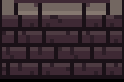
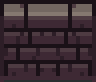
feat: implement random level door placement with protected access and updated visual rendering

diff --git a/src/ui/DesignModeView.java b/src/ui/DesignModeView.java
@@ -551,7 +551,19 @@ public class DesignModeView extends JPanel {
             return;
 
         GameObject existing = map.getObjectAt(hoverTileX, hoverTileY);
+        if (existing instanceof domain.models.staticObjects.LevelDoor) {
+            return; // Cannot overwrite the level door!
+        }
+
         GameObject obj = item.factory.apply(hoverTileX, hoverTileY);
+
+        // Cannot place obstacles in front of the door (which is at y==0)
+        if (hoverTileY == 1 && isObstacle(obj)) {
+            GameObject above = map.getObjectAt(hoverTileX, 0);
+            if (above instanceof domain.models.staticObjects.LevelDoor) {
+                return; // Cannot block the front of the door!
+            }
+        }
 
         boolean isWallMounted = (obj instanceof domain.models.staticObjects.WallObject);
 
@@ -635,6 +647,9 @@ public class DesignModeView extends JPanel {
         GameObject existing = map.getObjectAt(tx, ty);
         if (existing == null)
             return;
+        if (existing instanceof domain.models.staticObjects.LevelDoor) {
+            return; // Cannot erase the level door!
+        }
         if (existing instanceof WallTile) {
             map.placeObject(null, tx, ty);
         } else {
@@ -1038,7 +1053,11 @@ public class DesignModeView extends JPanel {
             }
         }
 
-        // 3. Çıkış Kapısı yerleştirme KALDIRILDI (Kapi assla konulmamali)
+        // 3. Çıkış Kapısı yerleştirme (Her zaman 1 kapı yerleştirsin, kapı önü boş olacak, en sağ/sol tile'lar hariç)
+        int doorX = rand.nextInt(w - 4) + 2; 
+        map.placeObject(new domain.models.staticObjects.LevelDoor("Level Gate", doorX, 0), doorX, 0);
+        map.placeObject(new domain.models.tile.FloorTile(), doorX, 1);
+        reserved[doorX][1] = true; // Diğer objelerin kapı önünde spawn olması engellenir
 
         // 4. Sütunlar (Obstacles) yerleştir
         int numColumns = rand.nextInt(3) + 2; // 2 - 4
@@ -1336,6 +1355,8 @@ public class DesignModeView extends JPanel {
     }
 
     private String objectType(GameObject obj) {
+        if (obj instanceof domain.models.staticObjects.LevelDoor)
+            return "LevelDoor";
         if (obj instanceof domain.models.staticObjects.WallObject)
             return "WallObject";
         if (obj instanceof PotionItem)
@@ -1432,6 +1453,7 @@ public class DesignModeView extends JPanel {
                 case "Sign" -> imgName != null && !imgName.isEmpty()
                         ? new Sign(name, x, y, imgName)
                         : new Sign(name, x, y);
+                case "LevelDoor" -> new domain.models.staticObjects.LevelDoor(name, x, y);
                 case "Door" -> new Door(name, x, y, locked);
                 case "Decoration" -> imgName != null && !imgName.isEmpty()
                         ? new Decoration(name, x, y, imgName)
@@ -1819,6 +1841,13 @@ public class DesignModeView extends JPanel {
                             g.drawImage(tImg, px, py - 6, tileSize, tileSize + 6, null);
                         }
                     }
+                } else if (y == 0 && obj instanceof domain.models.staticObjects.LevelDoor) {
+                    BufferedImage tImg = tileManager.getTile("wall/wall_1");
+                    if (tImg != null) {
+                        int dh = (int) (tileSize * 1.5);
+                        int drawY = py + tileSize - dh;
+                        g.drawImage(tImg, px, drawY, tileSize, dh, null);
+                    }
                 }
             }
         }
@@ -1909,7 +1938,7 @@ public class DesignModeView extends JPanel {
                             if (obj instanceof Decoration) {
                                 dw = (int) (tileSize * 0.4); // torch should be much smaller!
                             } else if (obj instanceof Door) {
-                                dw = tileSize * 3;
+                                dw = tileSize * 2;
                             }
                             int dh = (int) (ih * ((double) dw / iw));
                             int drawX = px + (tileSize - dw) / 2;

diff --git a/src/domain/logic/LevelManager.java b/src/domain/logic/LevelManager.java
@@ -198,10 +198,43 @@ public class LevelManager {
     }
 
     public static void placeRandomLevelDoor(GameMap map, String name) {
+        if (map == null) return;
+        
         int w = map.getWidth();
-        int middleX = w / 2;
-        int doorY = 0; // Top wall
-        map.placeObject(new LevelDoor(name, middleX, doorY), middleX, doorY);
-        System.out.println("Placed static LevelDoor '" + name + "' at (" + middleX + ", " + doorY + ")");
+        int h = map.getHeight();
+        
+        // Check if map already has a LevelDoor
+        for (int x = 0; x < w; x++) {
+            for (int y = 0; y < h; y++) {
+                GameObject obj = map.getObjectAt(x, y);
+                if (obj instanceof LevelDoor) {
+                    // Already has exactly 1 door, keep it and ensure its front tile is clear!
+                    int doorX = x;
+                    int doorY = y;
+                    // Ensure the tile in front of it (insides) is a FloorTile
+                    int frontY = (doorY == 0) ? 1 : (doorY == h - 1 ? h - 2 : doorY);
+                    if (frontY != doorY) {
+                        GameObject frontObj = map.getObjectAt(doorX, frontY);
+                        if (frontObj == null || !(frontObj instanceof domain.models.tile.FloorTile)) {
+                            map.placeObject(new domain.models.tile.FloorTile(), doorX, frontY);
+                        }
+                    }
+                    System.out.println("Map already has a LevelDoor at (" + doorX + ", " + doorY + "). Keeping it and clearing front.");
+                    return;
+                }
+            }
+        }
+        
+        // No LevelDoor found. Place a new random LevelDoor on the top wall (y == 0, en sağ/sol tile'lar hariç)
+        Random rand = new Random();
+        int doorX = rand.nextInt(w - 4) + 2;
+        int doorY = 0; // Top wall only
+        
+        map.placeObject(new LevelDoor(name, doorX, doorY), doorX, doorY);
+        
+        // Ensure the tile in front of the door (doorX, 1) is a FloorTile (obstacle is removed if any)
+        map.placeObject(new domain.models.tile.FloorTile(), doorX, 1);
+        
+        System.out.println("Placed static LevelDoor '" + name + "' randomly at (" + doorX + ", " + doorY + ") and cleared front tile.");
     }
 }

diff --git a/src/view/GameView.java b/src/view/GameView.java
@@ -992,7 +992,7 @@ public class GameView extends JPanel {
                             obj instanceof domain.models.entity.Column ||
                             obj instanceof domain.models.entity.Chest ||
                             obj instanceof domain.models.entity.Crate ||
-                            obj instanceof domain.models.staticObjects.Door ||
+                            (obj instanceof domain.models.staticObjects.Door && !(obj instanceof domain.models.staticObjects.LevelDoor)) ||
                             obj instanceof domain.models.staticObjects.Decoration ||
                             obj instanceof domain.models.entity.SearchableObject ||
                             obj instanceof domain.models.entity.Sign ||
@@ -1074,6 +1074,13 @@ public class GameView extends JPanel {
                     }
                 } else if ("wall/wall_2".equals(obj.getImageName())) {
                     BufferedImage tileImage = tileManager.getTile(obj.getImageName());
+                    if (tileImage != null) {
+                        int dh = (int) (tileSize * 1.5);
+                        int drawY = offsetY + (yVal * tileSize) + tileSize - dh;
+                        g2d.drawImage(tileImage, offsetX + (x * tileSize), drawY, tileSize, dh, null);
+                    }
+                } else if (yVal == 0 && obj instanceof domain.models.staticObjects.LevelDoor) {
+                    BufferedImage tileImage = tileManager.getTile("wall/wall_1");
                     if (tileImage != null) {
                         int dh = (int) (tileSize * 1.5);
                         int drawY = offsetY + (yVal * tileSize) + tileSize - dh;
@@ -1279,7 +1286,7 @@ public class GameView extends JPanel {
                     if (obj instanceof domain.models.staticObjects.Decoration) {
                         baseDw = tileSize * 0.4;
                     } else if (obj instanceof domain.models.staticObjects.Door) {
-                        baseDw = tileSize * 3;
+                        baseDw = tileSize * 2;
                     }
                     double factor = (baseDw * obj.getCustomScale()) / iw;
                     int dw = (int) Math.round(iw * factor);

diff --git a/src/domain/models/map/GameMap.java b/src/domain/models/map/GameMap.java
@@ -30,19 +30,15 @@ public class GameMap extends Grid {
     private void initializeEmptyMap() {
         for (int i = 0; i < rows; i++) {
             for (int j = 0; j < cols; j++) {
-                // --- YAN DUVARLAR (öncelik: köşeler dahil tüm sütunlar) ---
+                // --- YAN DUVARLAR (köşeler dahil sol/sağ sütunların tamamı) ---
                 if (i == 0 || i == rows - 1) {
                     placeObject(new domain.models.tile.WallTile("wall/wall_side"), i, j);
                 }
                 // --- ÜST DUVAR (yan duvarların arasında) ---
                 else if (j == 0) {
-                    if (i == rows / 2) {
-                        placeObject(new domain.models.tile.FloorTile(), i, j);
-                    } else {
-                        placeObject(new domain.models.tile.WallTile("wall/wall_1"), i, j);
-                    }
+                    placeObject(new domain.models.tile.WallTile("wall/wall_1"), i, j);
                 }
-                // --- ALT DUVAR (yan duvarların arasında) ---
+                // --- ALT DUVAR (yan duvarların arasında, köşeler hariç) ---
                 else if (j == cols - 1) {
                     placeObject(new domain.models.tile.WallTile("wall/wall_2"), i, j);
                 }

diff --git a/src/DemoRunner.java b/src/DemoRunner.java
@@ -192,6 +192,13 @@ public class DemoRunner {
     // ── Design Mode ──────────────────────────────────────────────────────────
     private static void startDesignMode(JFrame frame, JPanel mainPanel, CardLayout cardLayout) {
         GameMap map = new GameMap(30, 20);
+        
+        // Kapının yeri oyunda build mode açıldığı anda direkt atanmış olarak gelsin (Rastgele 1 kapı yerleştirilir, en sağ/sol tile'lar hariç)
+        java.util.Random rand = new java.util.Random();
+        int doorX = rand.nextInt(map.getWidth() - 4) + 2; 
+        map.placeObject(new domain.models.staticObjects.LevelDoor("Level Gate", doorX, 0), doorX, 0);
+        map.placeObject(new domain.models.tile.FloorTile(), doorX, 1); // Kapı önü boş olacak
+        
         TileManager tileManager = new TileManager();
 
         DesignModeView designView = new DesignModeView(
